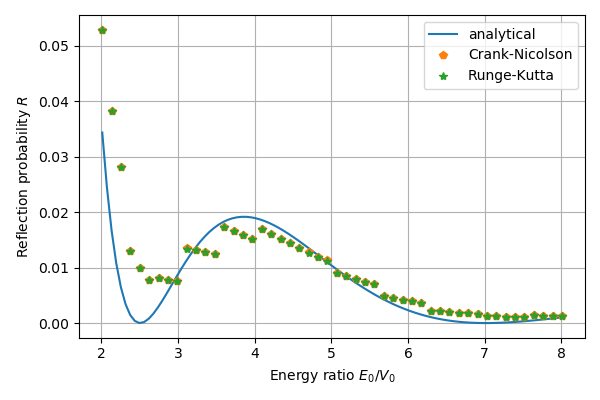
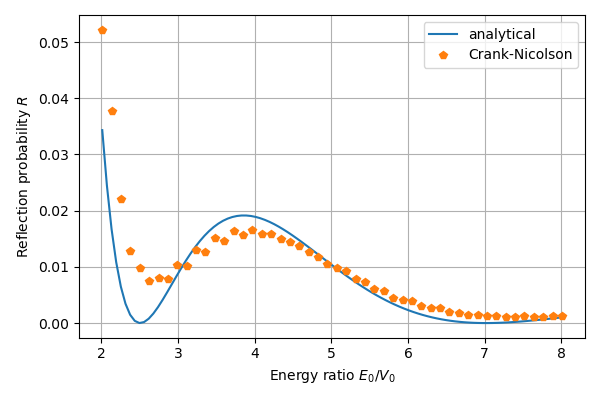
QMWaveFunctionVisualizer

diff --git a/src/WaveFunction.py b/src/WaveFunction.py
@@ -1,29 +1,35 @@
 import numpy as np
 import scipy.constants as const
 
-# Initial values: position x_0, energy E_0, energy uncertainty DeltaE
-# barrier width a and height V_0, mass m and momentums p_0, kappa_0.
+# Barrier width a_b, barrier height V_b, electron mass m_e and planck's constant hbar
 a_b = 5. * const.angstrom
 V_b = 0.25 * const.eV
 m_e = const.m_e
 hbar = const.hbar
+
+# barrier strength and dimensionless mass number
 kb_a = np.sqrt(2. * m_e * V_b) * a_b / hbar
 m = kb_a ** 2
 
+# Initial values: energy E -> E_0/V_0, momentum p_0, sigma_p -> 10% of p_0
 E = 0.9
 p_0 = np.sqrt(m * E)
 sigma_p = p_0 / 10
 sigma_x = 1. / sigma_p
 x_0 = -1 - 5 * sigma_x
 
-# Discretization of spatial coords
+# Discretization of spatial coords from -2*x_0 to 2*x_0
 x_max = -2. * x_0
-n_x = 1000
+n_x = 2000
 x, dx = np.linspace(-x_max, x_max, n_x, retstep=True)
 
 
 def psi_0(x):
-    """Initial wave function psi of free particle centered at x_0 with average momentum p_0."""
+    """
+    Initial wave function psi of free particle with average momentum p_0.
+    :param x: particle centered at x_0
+    :return: initial wave packet
+    """
     psi = np.zeros(x.size, complex)
     for i in range(x.size):
         psi[i] = np.exp(-(x[i] - x_0) ** 2 / (sigma_x ** 2)) * np.exp(1j * p_0 * x[i])
@@ -31,31 +37,50 @@ def psi_0(x):
 
 
 def psi_t(t, p):
-    """Time dependent solution of schrodinger equation psi_t."""
+    """
+    Time dependent solution of schrodinger equation psi_t.
+    :param t: time variable
+    :param p: momentum
+    :return: time dependent solution
+    """
     return np.exp(-1j * (p ** 2 / m) * t)
 
 
 def V(x):
-    """Time independent potential V(x)."""
-    V = np.zeros(x.size)
-    for index, value in enumerate(x):
-        if -1. <= value <= 1.:
-            V[index] = 1.
-    return V
+    """
+    Time independent potential V(x).
+    :param x: position variable
+    :return: potential
+    """
+    return np.heaviside(1. - np.abs(x), 1.)
 
 
 def t_col(p=p_0):
-    """Collision time from particle with initial position x_0 and momentum p_0."""
+    """
+    Collision time t_col from particle with initial position x_0.
+    :param p: momentum
+    :return: collision time
+    """
     return -x_0 / (p / m)
 
 
 def norm(psi):
-    """Normalization of wave function |psi|^2."""
+    """
+    Norm of wave function |psi|^2.
+    :param psi: wave function
+    :return: norm
+    """
     return np.sum(np.abs(psi) ** 2 * dx)
 
 
 def prob(psi2, x_start=-x_max, x_end=x_max):
-    """Probability of finding the particle in [x_start, x_end] based on formula: sum{|psi|^2*dx}."""
+    """
+    Probability of finding the particle in selected interval based on formula: sum{|psi|^2*dx}.
+    :param psi2: normalized probability density
+    :param x_start: lower position boundary
+    :param x_end: upper position boundary
+    :return: probability sum{|psi|^2*dx} from a to b
+    """
     P = 0.0
     for index, value in enumerate(x):
         if x_start <= value <= x_end:
@@ -64,7 +89,9 @@ def prob(psi2, x_start=-x_max, x_end=x_max):
 
 
 def param_info():
-    """Some information about initial parameters for the console."""
+    """
+    Some information about initial parameters for the console.
+    """
     print('Parameters######################\n'
           f'Barrier strength: {round(kb_a, 2)}\n'
           f'E/V-ratio: {round(E, 2)}\n'
@@ -73,7 +100,10 @@ def param_info():
 
 
 def prob_info(psi):
-    """Prototype for logging scattering probabilities."""
+    """
+    Prototype for logging scattering probabilities.
+    :param psi: wave function
+    """
     psi2_norm = norm(psi)
     refl = prob(np.abs(psi) ** 2 / psi2_norm, -x_max, -1.)
     trans = prob(np.abs(psi) ** 2 / psi2_norm, 1., x_max)

diff --git a/src/WFAnalytic.py b/src/WFAnalytic.py
@@ -4,13 +4,14 @@ import WaveFunction as wf
 E = wf.E
 m = wf.m
 
+# Dimensionless wave numbers k_0 and kappa_0
 p0 = wf.p_0
 if E <= 1.:
     k0 = np.sqrt(m * (1. - E))
 else:
     k0 = 1j * np.sqrt(m * (E - 1.))
 
-# Coefficients of stationary solution (scattering on a barrier) for all three regions
+# Coefficients of stationary solution (scattering on a barrier)
 A = 1.0
 F = A / ((np.cosh(2 * k0) + (1j / 2) * (k0 / p0 - p0 / k0) * np.sinh(2 * k0)) * np.exp(2j * p0))
 B = F * (-1j / 2) * (k0 / p0 + p0 / k0) * np.sinh(2 * k0)
@@ -48,7 +49,7 @@ def psi_x(x, t, p=0):
     return psi_xt * wf.psi_t(t, p_0)
 
 
-def psi(x, t, phi):
+def psi(x, t, phi=psi_x):
     """Approximation of wavepacket by GAUSSIAN quadrature procedure."""
     psi = 0.0
     for j in range(0, len(x_H), 1):
@@ -56,7 +57,7 @@ def psi(x, t, phi):
     return psi
 
 
-def info(psi):
+def prob_info(psi):
     """Scattering probabilities for the console."""
     print('\nAnalytical\n'
           f'Reflection probability: {round(np.abs(B / A) ** 2, 4)}\n'
@@ -73,68 +74,3 @@ def x_t(t):
         return -1. - (2. * p0 / m) * (t - t_col)
     else:
         return x_pos
-
-
-def kappa(k):
-    if k ** 2 <= k_b ** 2:
-        return np.sqrt(k_b ** 2 - k ** 2)
-    else:
-        return 1j * np.sqrt(k ** 2 - k_b ** 2)
-
-
-def f_mu(mu, k):
-    kappa0 = np.conj(kappa(k))
-    if mu == 0:
-        return np.cosh(kappa0) * np.cosh(k * xi) - \
-                1j * kappa0 / k * np.sinh(kappa0) * np.sinh(k * xi)
-    elif mu == 1:
-        return -np.sinh(kappa0) * np.cosh(k * xi) + \
-                1j * kappa0 / k * np.cosh(kappa0) * np.sinh(k * xi)
-
-
-def C2_mu(mu, k):
-    kappa0 = complex(kappa(k))
-    if mu == 0:
-        return 1. / np.pi * k ** 2 / (k ** 2 * np.cosh(kappa0) ** 2 +
-                                      np.abs(kappa0) ** 2 * np.abs(np.sinh(kappa0)) ** 2)
-    elif mu == 1:
-        return 1. / np.pi * k ** 2 / (k ** 2 * np.abs(np.sinh(kappa0)) ** 2 +
-                                      np.abs(kappa0) ** 2 * np.cosh(kappa0) ** 2)
-
-
-def chi_mu(mu, x, k):
-    kappa0 = complex(kappa(k))
-    chi_alpha = np.zeros(x.size, complex)
-    if mu == 0:
-        for i in range(x.size):
-            if x[i] < -1.:
-                chi_alpha[i] = np.cosh(kappa0) * np.cos(k * (x[i] + 1.)) - \
-                               kappa0 / k * np.sinh(kappa0) * np.sin(k * (x[i] + 1.))
-            elif -1. <= x[i] <= 1.:
-                chi_alpha[i] = np.cosh(kappa0 * x[i])
-            elif x[i] > 1.:
-                chi_alpha[i] = np.cosh(kappa0) * np.cos(k * (x[i] - 1.)) + \
-                               kappa0 / k * np.sinh(kappa0) * np.sin(k * (x[i] - 1.))
-        return np.sqrt(C2_mu(0, k)) * chi_alpha
-    elif mu == 1:
-        for i in range(x.size):
-            if x[i] < -1.:
-                chi_alpha[i] = -np.sinh(kappa0) * np.cos(k * (x[i] + 1.)) + \
-                                kappa0 / k * np.cosh(kappa0) * np.sin(k * (x[i] + 1.))
-            elif -1. <= x[i] <= 1.:
-                chi_alpha[i] = np.sinh(kappa0 * x[i])
-            elif x[i] > 1.:
-                chi_alpha[i] = np.sinh(kappa0) * np.cos(k * (x[i] - 1.)) + \
-                               kappa0 / k * np.cosh(kappa0) * np.sin(k * (x[i] - 1.))
-        return np.sqrt(C2_mu(1, k)) * chi_alpha
-
-
-def G_alpha(x, k):
-    return np.heaviside(k, 1.) * F_0 / wf.sigma_x * \
-           (C2_mu(0, k) * f_mu(0, k) * chi_mu(0, x, k) +
-            C2_mu(1, k) * f_mu(1, k) * chi_mu(1, x, k))
-
-
-def psi_alpha(x, t, k=0):
-    psi_t = np.exp(-1j * k ** 2 * t / (2. * m * wf.sigma_x ** 2))
-    return psi_t * G_alpha(x, k / wf.sigma_x)

diff --git a/src/WFAnimation.py b/src/WFAnimation.py
@@ -4,52 +4,48 @@ import numpy as np
 from matplotlib import pyplot as plt
 from matplotlib import animation as ani
 import WaveFunction as wf
-import WFNumeric as wfn
-import WFAnalytic as wfa
+import WFNumeric as wn
+import WFAnalytic as wa
 
 x = wf.x
 dx = wf.dx
-t = wfn.t_n
+t = wn.t_n
 
 fig = plt.figure(figsize=(6, 4))
 ax = plt.subplot(1, 1, 1)
-ax.set_xlim(-50, 50)
-ax.set_ylim(-0.01, 0.1)
+
+an = wa.psi(x, 0)
+psi_an, = ax.plot(x, np.abs(an) ** 2, label='Gauss-Hermite')
+norm_an = wf.norm(an)
+
+rk = wn.RKSolver()
+psi_rk, = ax.plot(x, np.abs(rk.psi(0)) ** 2, label='Runge-Kutta')
+norm_rk = wf.norm(rk.psi(0))
+
+cn = wn.CNSolver()
+psi_cn, = ax.plot(x, np.abs(cn.psi) ** 2, label='Crank-Nicolson')
+norm_cn = wf.norm(cn.psi)
+
+prob_text = ax.text(wf.x_0, 0.12, '', fontsize=12)
+particle, = ax.plot(wf.x_0, 0., 'ok')
+
+ax.set_xlim(min(x), max(x))
+ax.set_ylim(-0.1*max(np.abs(an) ** 2 / norm_an),
+            max(np.abs(an) ** 2 / norm_an) + 0.1*max(np.abs(an) ** 2 / norm_an))
 ax.set_xlabel(r'Position $x/$a')
 ax.set_ylabel(r'Probability density $|\psi(x,t)|^2/$a$^{-1}$')
 
-an = wfa.psi(x, 0, wfa.psi_x)
-psi_an, = ax.plot(x, np.abs(an) ** 2, label='Gauss-Hermite')
-norm_an = wf.norm(an)
-# an = wfa.psi(x, 0, wfa.psi_alpha)
-# psi_an, = ax.plot(x, np.abs(an) ** 2, label='Gauss-Hermite')
-# norm_an = wf.norm(an)
-
-rk = wfn.PsiRK().solve()
-psi_rk, = ax.plot(x, np.abs(rk.y[:, 0]) ** 2, label='Runge-Kutta')
-norm_rk = wf.norm(rk.y[:, 0])
-
-cn = wfn.PsiCN()
-psi_cn, = ax.plot(x, np.abs(cn.evolve(0)) ** 2, label='Crank-Nicolson')
-norm_cn = wf.norm(cn.evolve(0))
-
-prob_text = ax.text(wf.x_0, 0.12, '', fontsize=12)
-
-particle, = ax.plot(wf.x_0, 0., 'ok')
-
 
 def init():
-    ax.plot(x, wf.V(x)*0.1, '--k')
+    ax.plot(x, wf.V(x), '--k')
     return psi_an, psi_rk, psi_cn, particle
 
 
 def update(i):
-    psi2_an = np.abs(wfa.psi(x, t[i], wfa.psi_x)) ** 2 / norm_an
+    psi2_an = np.abs(wa.psi(x, t[i])) ** 2 / norm_an
     psi_an.set_ydata(psi2_an)
-    # psi2_an = np.abs(wfa.psi(x, t[i], wfa.psi_alpha)) ** 2 / norm_an
-    # psi_an.set_ydata(psi2_an)
 
-    psi2_rk = np.abs(rk.y[:, i]) ** 2 / norm_rk
+    psi2_rk = np.abs(rk.psi(i)) ** 2 / norm_rk
     psi_rk.set_ydata(psi2_rk)
 
     psi2_cn = np.abs(cn.evolve(i)) ** 2 / norm_cn
@@ -59,7 +55,7 @@ def update(i):
                        r'$P_{RK}=$' + f'{round(wf.prob(psi2_rk), 4)}\n'
                        r'$P_{CN}=$' + f'{round(wf.prob(psi2_cn), 4)}')
 
-    particle.set_xdata(wfa.x_t(t[i]))
+    particle.set_xdata(wa.x_t(t[i]))
     return psi_an, psi_rk, psi_cn, particle
 
 
@@ -69,10 +65,10 @@ anim = ani.FuncAnimation(fig, update, init_func=init,
                          frames=len(t), interval=100, blit=True)
 
 wf.param_info()
-wfa.info(wfa.psi(x, wf.t_col(), wfa.psi_x))
-wfn.PsiRK().info(rk.y[:, wfn.t_n.size - 1])
-cn.info()
-if False:
+wa.prob_info(wa.psi(x, t[-1]))
+rk.prob_info()
+cn.prob_info()
+if True:
     anim.save('img/barrier.gif', writer='imagemagick',
               fps=10, dpi=100, extra_args=['-layers Optimize'],
               progress_callback=lambda i, n: print(f'Saving frame {i+1} of {n}'))

diff --git a/src/WFNumeric.py b/src/WFNumeric.py
@@ -10,10 +10,10 @@ V = wf.V(x)
 m = wf.m
 psi_0 = wf.psi_0(x)
 
-# Discretization of time coords from zero to collision time
+# Discretization of time variable from zero to collision time
 t_0 = 0.0
 t_N = wf.t_col()
-dt = t_N / 100
+dt = t_N / 200
 t_n = np.arange(t_0, t_N, dt)
 
 
@@ -24,26 +24,28 @@ def hamilton():
     return sp.sparse.diags([d1, d0, d1], [-1, 0, 1])
 
 
-class PsiRK:
-    def solve(self):
-        """Solve schrodinger-equation by RUNGE-KUTTA procedure for initial free wavepacket."""
-        return integrate.solve_ivp(self.eq, y0=psi_0,
-                                   t_span=[t_0, t_N], t_eval=t_n, method='RK23')
+class RKSolver:
+    """Solve schrodinger-equation by RUNGE-KUTTA procedure for initial free wave packet."""
+    def __init__(self):
+        self.sol = integrate.solve_ivp(self.dt_psi, y0=psi_0,
+                                       t_span=[t_0, t_N], t_eval=t_n, method='RK23')
 
     @staticmethod
-    def eq(t, psi):
+    def dt_psi(t, psi):
         """Right-hand side of schrodinger-equation."""
         H = hamilton()
         return -1j * H.dot(psi)
 
-    @staticmethod
-    def info(psi):
+    def psi(self, index):
+        return self.sol.y[:, index]
+
+    def prob_info(self):
         """Scattering probabilities for the console."""
         print('\nRUNGE-KUTTA')
-        wf.prob_info(psi)
+        wf.prob_info(self.psi(-1))
 
 
-class PsiCN:
+class CNSolver:
     """Discretization of position and time coords by CRANK-NICOLSON procedure."""
     H = hamilton()
     imp = (sp.sparse.eye(x.size) - dt / 2j * H).tocsc()
@@ -53,8 +55,6 @@ class PsiCN:
     def __init__(self):
         """Initiate free wavepacket psi0."""
         self.psi = psi_0
-        # <= 0.5 (!)
-        # print(dt / dx ** 2)
 
     def evolve(self, t):
         """Solve schrodinger-equation by applying CN-matrix."""
@@ -73,7 +73,7 @@ class PsiCN:
             delta_t += dt
         return psi0
 
-    def info(self):
+    def prob_info(self):
         """Scattering probabilities for the console."""
         psi = self.custom_evolve(t_N)
         print('\nCRANK-NICOLSON')
